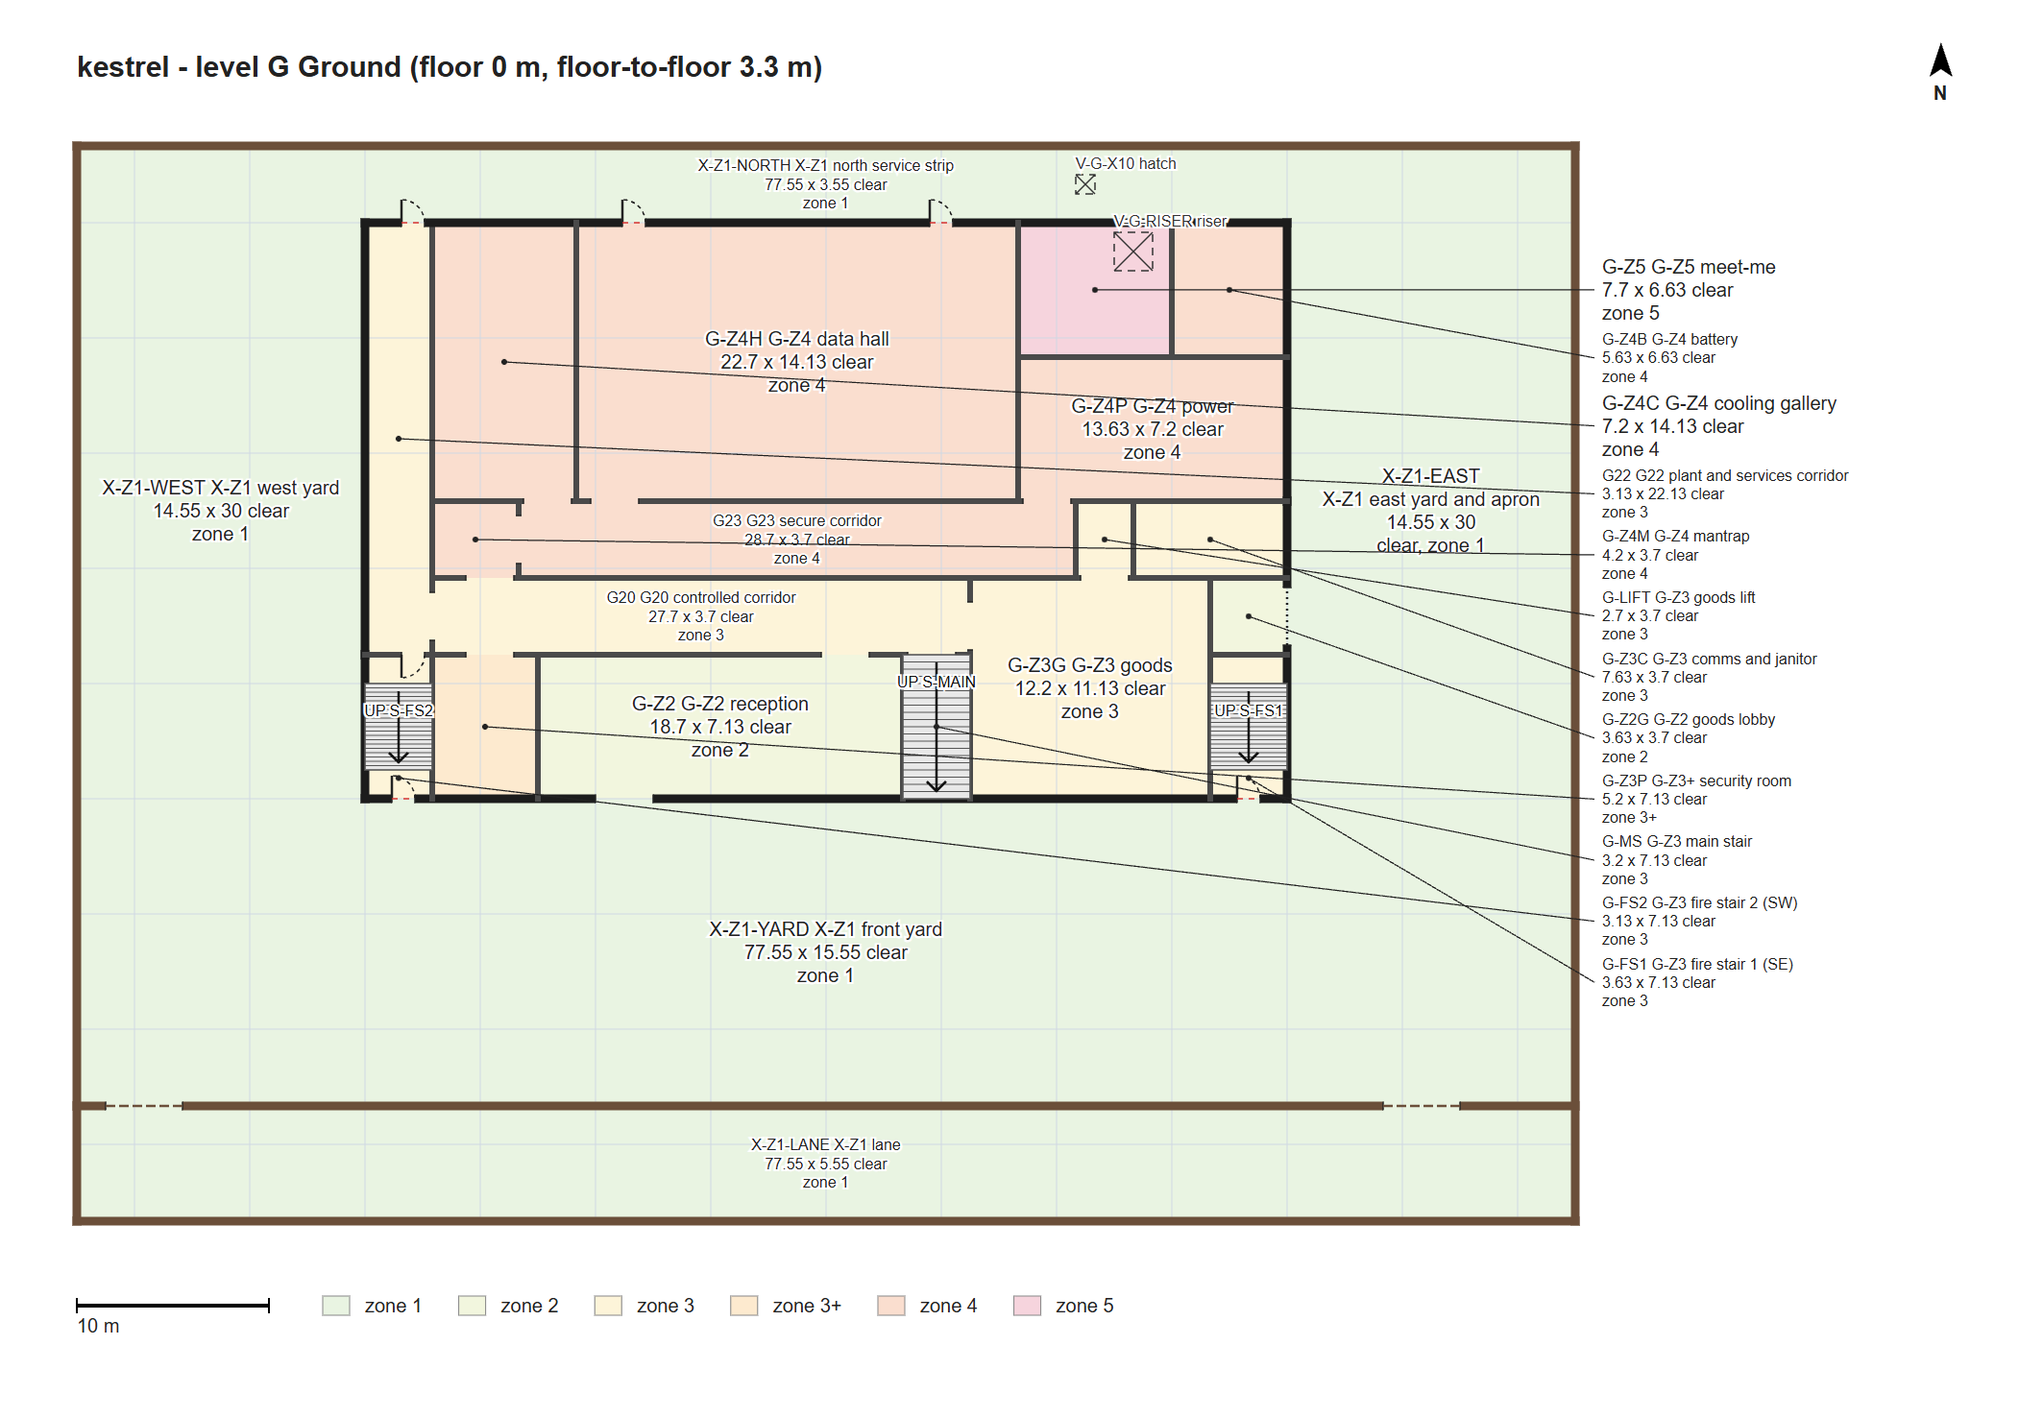
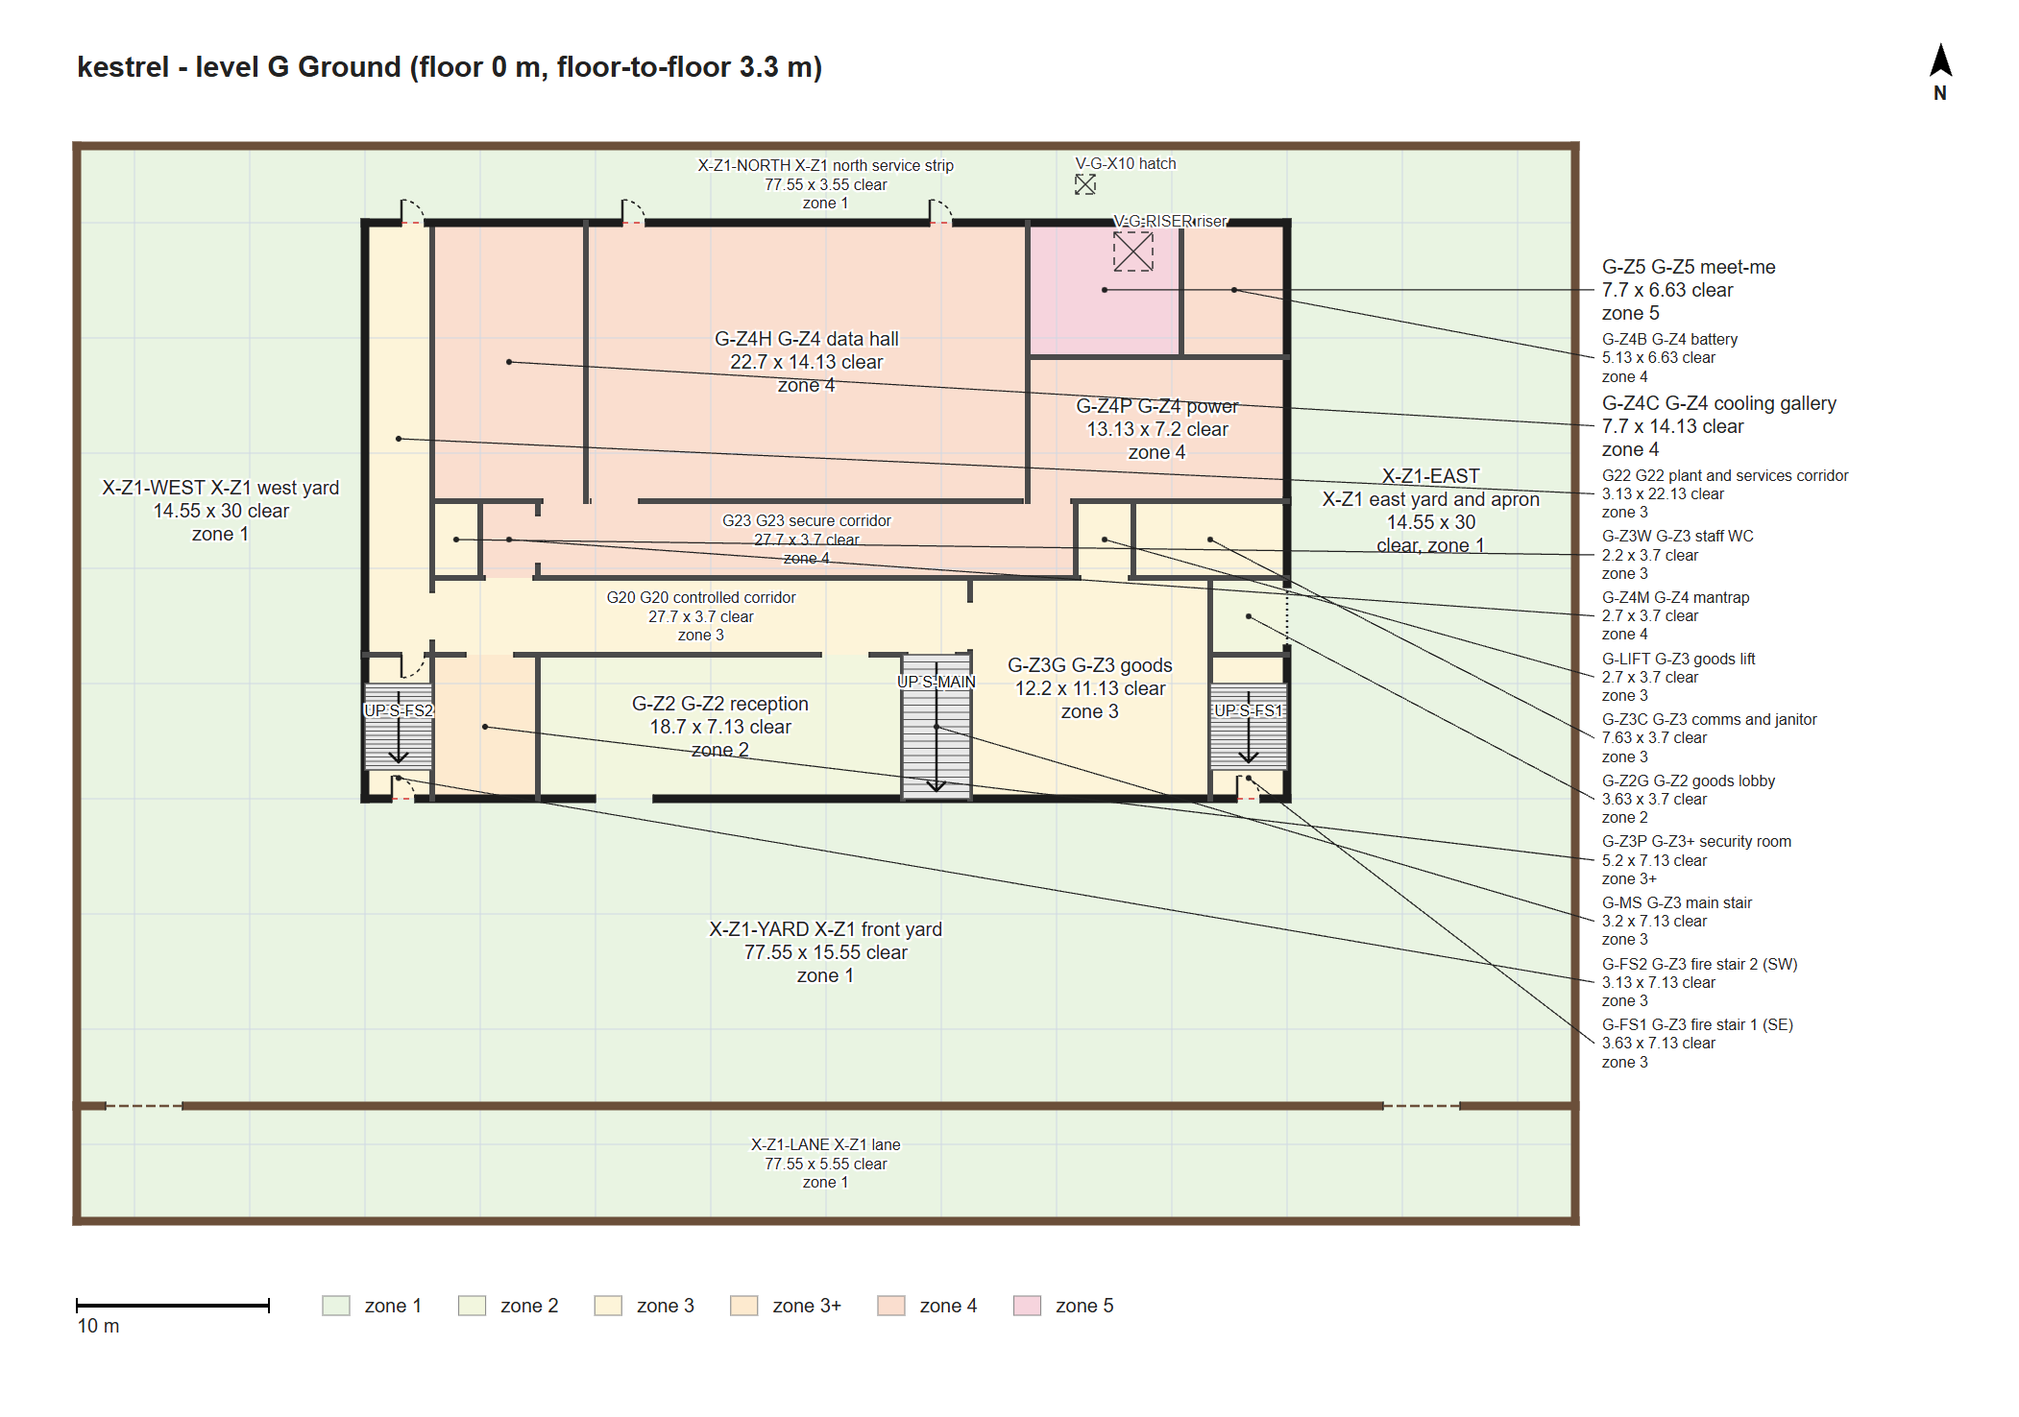
kestrel P03B: staff WC off G20, neighbour heights

diff --git a/docs/kestrel/03B-block-plan.md b/docs/kestrel/03B-block-plan.md
@@ -8,7 +8,7 @@ Plans: `docs/kestrel/plans/blocks-{B,G,F,R}.png`. Area check: brief room areas (
 | Item | Value |
 | --- | --- |
 | Site `meta.site` | [0, 0, 78, 56]: 78 x 56 (limit 80 x 60) |
-| Lane X01 | z 0-6, full width; depot facade on z 0; 2.4 m palisade fence on z 6 |
+| Lane X01 | z 0-6, full width; depot facade on z 0 (7.0 m); 2.4 m palisade fence on z 6; viaduct on z 56 (9.0 m to its deck) |
 | Footprint `meta.footprint` | [15, 22, 63, 52]: 48 x 30, 8 x 5 bays of 6.0 (limit 48 x 30) |
 | Grid lines, west to east | A 15, B 21, C 27, D 33, E 39, F 45, G 51, H 57, I 63 |
 | Grid lines, south to north | 1 z22, 2 z28, 3 z34, 4 z40, 5 z46, 6 z52 |
@@ -45,14 +45,15 @@ The front/north line z 37.5 and the row lines z 29.5 and 33.5 are on the 0.5 m g
 | G-MS / F-MS main stair | G, F | 3 | 43,22,46.5,29.5 | G21 | stair core |
 | G-FS2 / F-FS2 fire stair 2 | G, F | 3 | 15,22,18.5,29.5 | G25 | stair core |
 | G-FS1 / F-FS1 fire stair 1 | G, F | 3 | 59,22,63,29.5 | G24 | stair core |
-| G-Z4M mantrap | G | 4 | 18.5,33.5,23,37.5 | G12 | 7.5 / 18 = 42% |
-| G23 corridor | G | 4 | 23,33.5,52,37.5 | G23 (clear 28.7 x 3.7) | corridor |
-| G-Z4C cooling gallery | G | 4 | 18.5,37.5,26,52 | G17 | 64 / 108.75 = 59% |
-| G-Z4H data hall | G | 4 | 26,37.5,49,52 | G13, G19 (cage inside) | 280 / 333.5 = 84% |
-| G-Z4P power | G | 4 | 49,37.5,63,45 | G14, G16 | 83 / 105 = 79% |
-| G-Z4B battery | G | 4 | 57,45,63,52 | G15 | 30 / 42 = 71% |
-| G-Z5 meet-me | G | 5 | 49,45,57,52 | G18, B02 head | 46 / 56 = 82% |
-| B-Z5V carrier vault | B | 5 | 49,44,57,52 | B01, B02 foot | 52 / 64 = 81% |
+| G-Z3W staff WC | G | 3 | 18.5,33.5,21,37.5 | G27 (Michael, P03B) | 5.5 / 10 = 55% |
+| G-Z4M mantrap | G | 4 | 21,33.5,24,37.5 | G12 | 7.5 / 12 = 63% |
+| G23 corridor | G | 4 | 24,33.5,52,37.5 | G23 (clear 27.7 x 3.7) | corridor |
+| G-Z4C cooling gallery | G | 4 | 18.5,37.5,26.5,52 | G17 | 64 / 116 = 55% |
+| G-Z4H data hall | G | 4 | 26.5,37.5,49.5,52 | G13, G19 (cage inside) | 280 / 333.5 = 84% |
+| G-Z4P power | G | 4 | 49.5,37.5,63,45 | G14, G16 | 83 / 101.25 = 82% |
+| G-Z4B battery | G | 4 | 57.5,45,63,52 | G15 | 30 / 38.5 = 78% |
+| G-Z5 meet-me | G | 5 | 49.5,45,57.5,52 | G18, B02 head | 46 / 56 = 82% |
+| B-Z5V carrier vault | B | 5 | 49.5,44,57.5,52 | B01, B02 foot | 52 / 64 = 81% |
 | B-Z5D carrier duct | B | 5 | 51,52,54,55 | X10 to B01 path (3 m) | duct |
 | F-Z3O offices and NOC | F | 3 | 18.5,22,43,29.5 | F01, F02 | 144 / 183.75 = 78% |
 | F-Z3S staff and facilities | F | 3 | 46.5,22,59,29.5 | F03, F04 | 72 / 93.75 = 77% |
@@ -64,12 +65,12 @@ The front/north line z 37.5 and the row lines z 29.5 and 33.5 are on the 0.5 m g
 | R-PLANT-E east deck | R | plant (3) | 59,29.5,63,37.5 | - | open |
 | R-BULK bulkhead | R | plant (3) | 59,22,63,29.5 | R02 | stair head |
 
-All 48 rows of the brief room schedule are assigned to a zone. Roof ring is written as 3 because A28 accepts 1-5 only; the roof is reached only from fire stair 1 (ring 3).
+All 49 rows of the brief room schedule (48 plus G27) are assigned to a zone. Roof ring is written as 3 because A28 accepts 1-5 only; the roof is reached only from fire stair 1 (ring 3).
 
 ## 4. How each ring is entered
 - Ring 1: over the lane fence (story entry), the west vehicle gate X09, the east gate to the apron.
 - Ring 2: reception by the front door on the south face (arch at x 28.5); goods lobby by the dock shutter on the east face (z 31.5).
-- Ring 3: G20 from reception (arch at x 40); the goods zone from the goods lobby (P04 door). G22, stairs, comms, lift and all of F are entered only from ring 3.
+- Ring 3: G20 from reception (arch at x 40); the goods zone from the goods lobby (P04 door). G22, the staff WC, stairs, comms, lift and all of F are entered only from ring 3.
 - Ring 3+: the security room only from G20 (arch at x 21.5). It shares a wall with reception (the window), no opening.
 - Ring 4: only through the mantrap: G20 to the mantrap (south side), mantrap to G23 (east side). G23 serves the gallery, hall and power; battery off power.
 - Ring 5: the meet-me room only from the hall (P04 door on the hall's east wall, z 45-52).
@@ -97,17 +98,17 @@ Polyline (G unless F), stair flight path 8.7 m (two flights of 10 risers plus th
 | 1 to 2 keycard | yard diagonal to the apron, dock shutter, goods, G20, reception arch, G05 | 98.1 |
 | 2 to 3 security room | back to G20, west to the 3+ arch, G06 | 30.6 |
 | 3 to 4 cage number | G20 east, main stair up, F08 west, NOC | 69.4 |
-| 4 to 5 secure zone | F08 east, main stair down, G20 west, mantrap, G23, hall arch (x 28) | 76.5 |
+| 4 to 5 secure zone | F08 east, main stair down, G20 west, mantrap, G23, hall arch (x 28) | 73.9 |
 | 5 to 6 tap | across the hall to the meet-me room | 28.0 |
 | 6 to 7 exfiltration | hall east fire exit, service strip east, east yard south, east gate | 85.0 |
-| Total | | 387.7 (target 380-550) |
+| Total | | 385.1 (target 380-550) |
 
 ## 8. Look notes
 - B: an 8 x 8 vault under the meet-me room with a 3 x 3 duct on its north side, under X10 in the service strip. Nothing else below ground.
 - B: the duct enters the vault by one arch; the vault sits under G-Z5 and part of power; walls are all retaining walls. No cell stacks over 3 surfaces.
 - B: the riser void on G lies over the vault; the ladder is P04's.
 - G: front block reads in three bands: rooms on the facade, G20, then G23 along the secure core. The north block reads gallery, hall, power with meet-me and battery.
-- G: G22 runs the full west side from G20 to its fire door into the service strip; the mantrap is the only link from G20 into ring 4.
+- G: G22 runs the full west side from G20 to its fire door into the service strip; the staff WC and the mantrap sit side by side north of G20; the mantrap is the only link into ring 4.
 - G: labels for small zones go to the callout column; the plan is legible. Fence gates show as dashed gaps.
 - F: one 48 m corridor links fire stair 2, the main stair and fire stair 1; offices and NOC face south.
 - F: the north row is only 3.6 m clear (toilets, lockers, store); the lift shaft sits between them.
@@ -118,7 +119,7 @@ Polyline (G unless F), stair flight path 8.7 m (two flights of 10 risers plus th
 
 ## 9. Checker notes
 `check.mjs`: 25 PASS, 1 WARN, 1 FAIL, 8 SKIP, 1 INFO.
-- A07 FAIL (opening detail, left for P04): three block arches sit on 4 m corridor-end walls and are within 1.5 m of a wall end: D-G20-MS (main stair), D-G20-GDS (G20 to goods), D-MT-G23 (mantrap inner side). P04's real 1.2 m doors fit.
+- A07 FAIL (accepted by Michael until P04's real doors): three block arches sit on 4 m corridor-end walls and are within 1.5 m of a wall end: D-G20-MS (main stair), D-G20-GDS (G20 to goods), D-MT-G23 (mantrap inner side). P04's real 1.2 m doors fit.
 - A10 WARN: G22's two doors (fire stair 2 at the south end, fire exit at the north end) line up across G22; they are 22.5 m apart at opposite ends, not facing.
 - A24 SKIP (no register yet, P06). A30 SKIP (no module rooms): fire stairs checked by hand (section 5). SC01-SC06 SKIP (no security file).
 - A19 INFO: lip list only.
@@ -127,12 +128,12 @@ Polyline (G unless F), stair flight path 8.7 m (two flights of 10 risers plus th
 - ASK-1: closed (Q1). G07 sits under the first floor at 3.0 clear (brief 4.0); P04 records the deviation.
 - ASK-2: closed (Q2). X10 moved beside the vault; brief 02 sections 4, 7, 9 and the G22 and X10 rows updated.
 - ASK-3: a 4 m service strip behind the building (not in the brief) gives the hall fire exits a yard; the viaduct wall is on z 56.
-- ASK-4: heights of the depot facade and viaduct are unknown; 2.4 m (the brief's boundary walls) is used. East gate width 4.0 copied from X09.
-- ASK-5: no staff WC on the ground floor in the brief; A30 will ask for one once module rooms are placed.
+- ASK-4: closed. Depot facade 7.0 m (two-storey warehouse), viaduct 9.0 m to its deck (Michael). East gate width 4.0 copied from X09.
+- ASK-5: closed. Staff WC G27 added in zone 3 off G20 (Michael); zone G-Z3W, P04 places it. The mantrap zone narrows to 3 m and the north block shifts 0.5 m east to make room.
 - Deviations: G23 29 m (brief 14); F08 48 m (brief 24); G22 3.13 clear (brief 3.5) and 22 m long; cooling gallery fits 14.1 m long (brief 16, same area); G09, F05 and F06 must reshape to 3.6-3.7 m deep; G08 and G09 open from the goods zone, not G20.
-- The critical path sits 7.7 m over the 380 m floor; accepted (Q3).
+- The critical path sits 5.1 m over the 380 m floor; accepted (Q3).
 
 ## 11. Questions for Michael (answered 2026-10-10)
 1. Loading bay height: (a) accept 3.0 m under the first floor; (b) keep 4.0 m and shrink the first floor. Answer: (a).
 2. Carrier duct: (a) 38 m duct; (b) under the north strip; (c) move X10. Answer: X10 moves to the north service strip beside the vault, short duct, reached from G22's fire door along the strip; the brief note is updated.
-3. Critical path at 388 m: (a) accept; (b) lengthen in P04. Answer: (a).
+3. Critical path at 388 m: (a) accept; (b) lengthen in P04. Answer: (a); now 385 m after the staff WC change.

diff --git a/docs/kestrel/02-building-brief.md b/docs/kestrel/02-building-brief.md
@@ -91,8 +91,9 @@ below the 6 m play-space minimum by function and are tagged; all occupied rooms 
 | G17 | Ground | 4 | Cooling gallery | CRAC/air-handling units and chilled-water headers; maintenance gantry | fans running | 16.0 x 4.0 | 5.0 | sealed concrete | G23 | dim | none |
 | G18 | Ground | 5 | Meet-me room (MMR) | Carrier/tenant cross-connect patch panels | contractor at the panel | 7.0 x 6.0 | 3.0 | antistatic vinyl | G13, B02 (carrier reader door) | on | Pell's private contractor; roaming officer |
 | G19 | Ground | 5 | Pell's cage (mesh, in G13) | One tenant's locked mesh cage of racks | being re-equipped | 4.0 x 3.0 (enclosure in G13) | 5.0 | raised access floor | G13 (caged door) | on | none (other cages are like mesh areas in G13) |
-| G20 | Ground | 3 | Controlled corridor | Staff spine: reception to goods, stairs and the mantrap | quiet | 3.5 x 26.0 | 3.0 | linoleum | G01, G06, G07, G08, G09, G11, G12, G21, G25 | on | rounds officer passes |
+| G20 | Ground | 3 | Controlled corridor | Staff spine: reception to goods, stairs and the mantrap | quiet | 3.5 x 26.0 | 3.0 | linoleum | G01, G06, G07, G08, G09, G11, G12, G21, G25, G27 | on | rounds officer passes |
 | G21 | Ground | 3 | Main stair core | Main stair, ground to first | passage | 6.0 x 3.5 | 3.0 | linoleum | G20, F08 | on | none |
+| G27 | Ground | 3 | Staff WC | Staff toilet for the security officers on the ground floor all night (Michael, P03B) | in use | 2.5 x 2.2 (service, as G03) | 3.0 | tile | G20 | off | none |
 | G23 | Ground | 4 | Secure corridor | Serves UPS, battery, switch, cooling, hall, MMR | quiet | 3.5 x 14.0 | 3.0 | antistatic vinyl | G12, G13, G14, G16, G17 | dim | escort officer stands here |
 | G22 | Ground | 3 | Plant and services corridor | Facilities corridor carrying the chilled-water pipes and pipe riser into the cooling gallery; CRAC servicing (Q1) | quiet, loud plant | 3.5 x 16.0 | 3.0 | sealed concrete | G20, X02 (exit-only fire door to the north service strip, the way to X10) | dim | escort officer on plant checks |
 | G24 | Ground | 3 | Fire stair 1 (SE, front block) | Enclosed escape stair, roof to ground, discharges outside | empty | 6.0 x 2.8 (stair) | 3.0 | concrete | F08, R02, X02 (exit-only) | emergency | none |
@@ -120,7 +121,7 @@ below the 6 m play-space minimum by function and are tagged; all occupied rooms 
 | X10 | Site | 1 | Carrier duct manhole | Lidded access to the carrier entry path to the vault | sealed | 1.0 x 1.0 opening | - | concrete | X02, B01 (carrier path) | PIR | none (in the north service strip beside the vault; reached from G22's fire door) |
 
 Area check (clear room + circulation areas vs gross footprint):
-- Ground (excluding G19, an enclosure inside G13): 63+5.5+30+20+30+80+12+42+20+6.25+3+7.5+280+48+30+35+64+42+91+21+49+56+17+17 = 1069.25 m2. Gross 1440 m2; the remaining ~371 m2 is wall thickness, columns and reserved white space for future cages (TIA-942 flexible white space, general knowledge). Fits.
+- Ground (excluding G19, an enclosure inside G13): 63+5.5+30+20+30+80+12+42+20+6.25+3+7.5+280+48+30+35+64+42+91+21+49+56+17+17+5.5 (G27) = 1074.75 m2. Gross 1440 m2; the remaining ~371 m2 is wall thickness, columns and reserved white space for future cages (TIA-942 flexible white space, general knowledge). Fits.
 - First floor (covers the south/front block, not the double-height secure core): rooms + corridor + stairs = 96+48+30+42+40+20+3+84+55 = 418 m2. Available first-floor footprint ~768 m2. Fits.
 - Basement: B01 48 + B02 4 = 52 m2, under the secure core only. Fits.
 - Roof: plant R01+R03 ~136 m2 plus the bulkhead; the rest is parapeted flat roof over 1440 m2. Fits.
@@ -233,7 +234,7 @@ is zone 2, the goods boundary between the apron and the loading bay (Q2).
 | S1 lane and yard | 1 | X01, X02, X03, X04, X05, X06, X07, X08, X09, X10 |
 | S2 ground-floor offices | 2 | G01, G03, G04, G05, G26 (fire alarm panel in G01) |
 | S3 security room | 3+ | G06 |
-| S4 ops and facilities | 3 | F01, F02, F03, F04, F05, F06, F07, F08 (first floor); G07, G08, G09, G10, G11, G20, G21, G22 (ground logistics); fire stairs G24, G25 |
+| S4 ops and facilities | 3 | F01, F02, F03, F04, F05, F06, F07, F08 (first floor); G07, G08, G09, G10, G11, G20, G21, G22, G27 (ground logistics); fire stairs G24, G25 |
 | S5 mantrap and data hall | 4 | G12, G13, G14, G15, G16, G17, G23 |
 | S6 meet-me room | 5 | G18, G19, B01, B02 |
 
@@ -289,5 +290,6 @@ Downstream: P04 and P06 must recheck fire stair 1 (G24) at the south-east corner
 | --- | --- | --- | --- |
 | 2026-10-10 | 1 | G06 door from G20, window onto G01 kept; G01, G06, G20 Doors to; section 6 G06 line | done |
 | 2026-10-10 | 2 | Fire stair 1 moved NE to SE of the front block; G24, R02, F08 Doors to; section 7 (stairs, first-floor escape ~24 m); section 9 fire exits row | done |
+| 2026-10-10 | P03B approval | Michael: ground-floor staff WC G27 added in zone 3 off G20 (security staff work the ground floor all night); room row, G20 Doors to, area check, section 11. P04 places it | done |
 | 2026-10-10 | P03B Q2 | Michael's answer in P03B: X10 moved beside the vault in the north service strip, reached from G22's fire door; section 4, G22 and X10 rows, section 7, section 9 fire exits row | done |
 

diff --git a/docs/kestrel/progress.md b/docs/kestrel/progress.md
@@ -32,6 +32,7 @@
 | P11 | Playtest triage | not started | | |
 
 ## Log (newest first)
+- 2026-10-10 P03B approval changes: staff WC zone G-Z3W (2.5 x 4) off G20 beside a 3 m mantrap; north block shifted 0.5 m east (all zones still at or under 85%); depot facade 7.0 m, viaduct 9.0 m; brief 02 gets G27 (revision row). Check 25 PASS, 1 WARN (A10), 1 FAIL (A07, accepted). Critical path 385.1 m.
 - 2026-10-10 P03B: docs/kestrel/kestrel.blocks.json (36 zones and corridors, B/G/F/R), 03B-block-plan.md (137 lines), plans/blocks-{B,G,F,R}.png. Building x 15-63, z 22-52; first floor front block z 22-37.5; north block hall, gallery, power, meet-me. Critical path 387.7 m.
   Check: 26 PASS, 1 FAIL (A07: three block arches on 4 m corridor-end walls, left for P04), A30 SKIP (no modules; fire stairs checked by hand).
   Deviations raised: loading bay 3.0 m under the first floor (brief 4.0), G23 29 m and F08 48 m long, 4 m north service strip. Michael answered the 3 questions: X10 moved beside the vault (duct 3 m, G22 fire door now opens to the strip); check now 25 PASS, 1 WARN (A10), 1 FAIL (A07).
@@ -59,6 +60,7 @@
 - 2026-10-10 P00: branch feature/kestrel made from ct-movement (e60c835). RULES.md saved word for word. 00-facts.md: 33 rows read from code and docs; 4 notes under NOT FOUND (nav ladder standoff, drainpipe climb speed, lighting doc numbers, F28 key is "type"). Coordinates: north +Z, east +X, up +Y. Three scripts/e2e-dead-line*.mjs files are not covered by RULES section 4.
 
 ## Decisions by Michael
+- 2026-10-10 P03B approval: add a ground-floor staff WC (G27) in zone 3 off G20, P04 places it; depot facade 7.0 m, viaduct 9.0 m to its deck; the three A07 block-arch failures are accepted until P04's real doors.
 - 2026-10-10 P03B questions: loading bay G07 sits under the first floor at 3.0 m clear (brief 4.0; P04 records it); carrier manhole X10 moves to the north service strip beside the vault (short duct), reached from G22's exit-only fire door along the strip, brief 02 updated (revision row P03B Q2); critical path 388 m accepted.
 - 2026-10-10 P03 Part C questions: A07 corner rule applies to corridors and play-space rooms only (service rooms just need the door inside the wall); mantrap ring 4 and A29 steps 1-2-3-4-5 with 3+ beside 3 only; A11 takes dog-leg stairs and the stair cores go back to 6.0 m; fire stair stays 3.0 wide and the customer cage 3.5 deep (brief deviations for P04).
 - 2026-10-10 P03 Part B questions: door end-clearance is measured from the opening's near edge; levels get an optional footprint rect for the first-floor-over-the-front-block-only shape (ground and roof use the full footprint, the first floor its own smaller rect).
